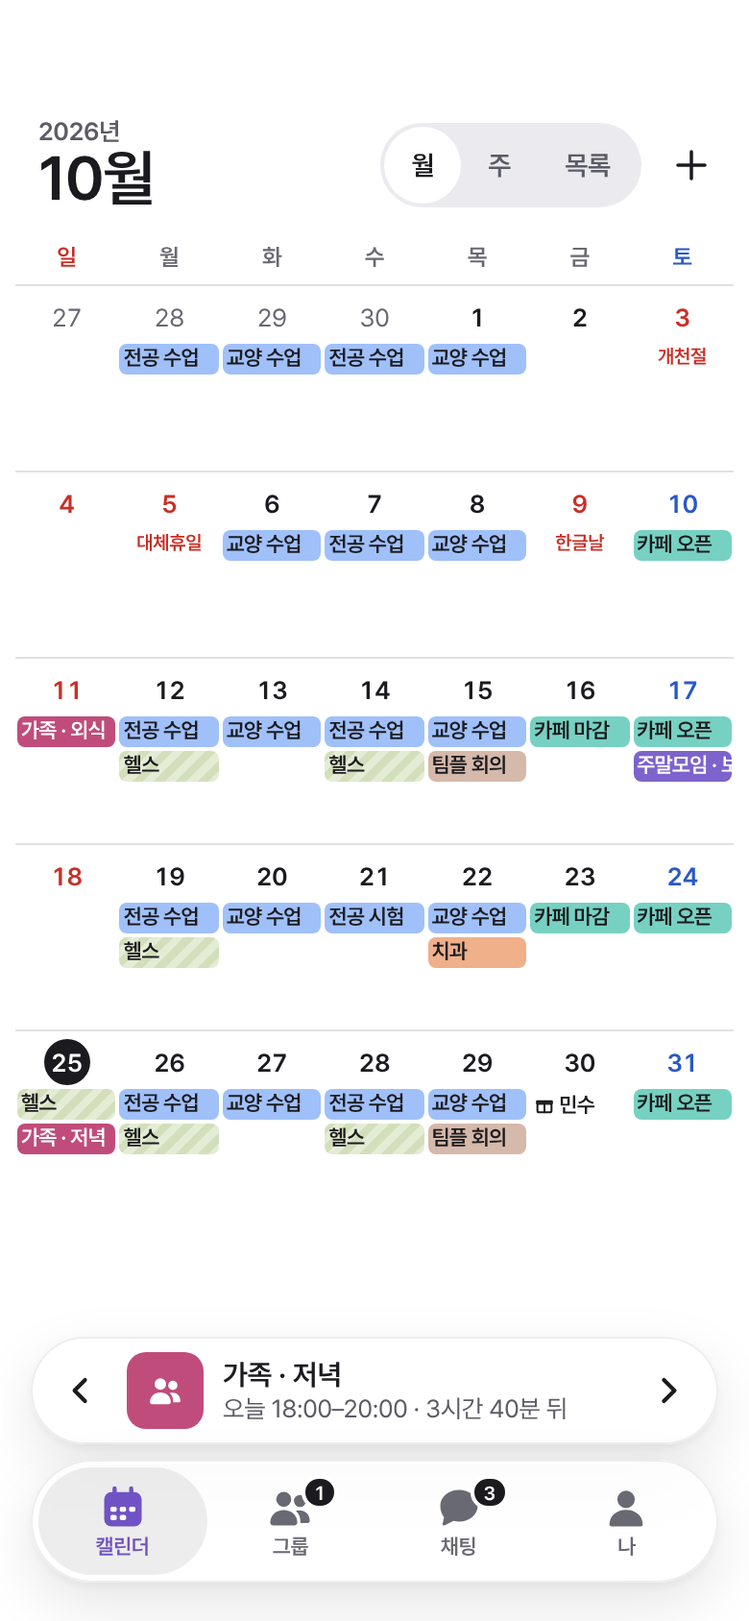
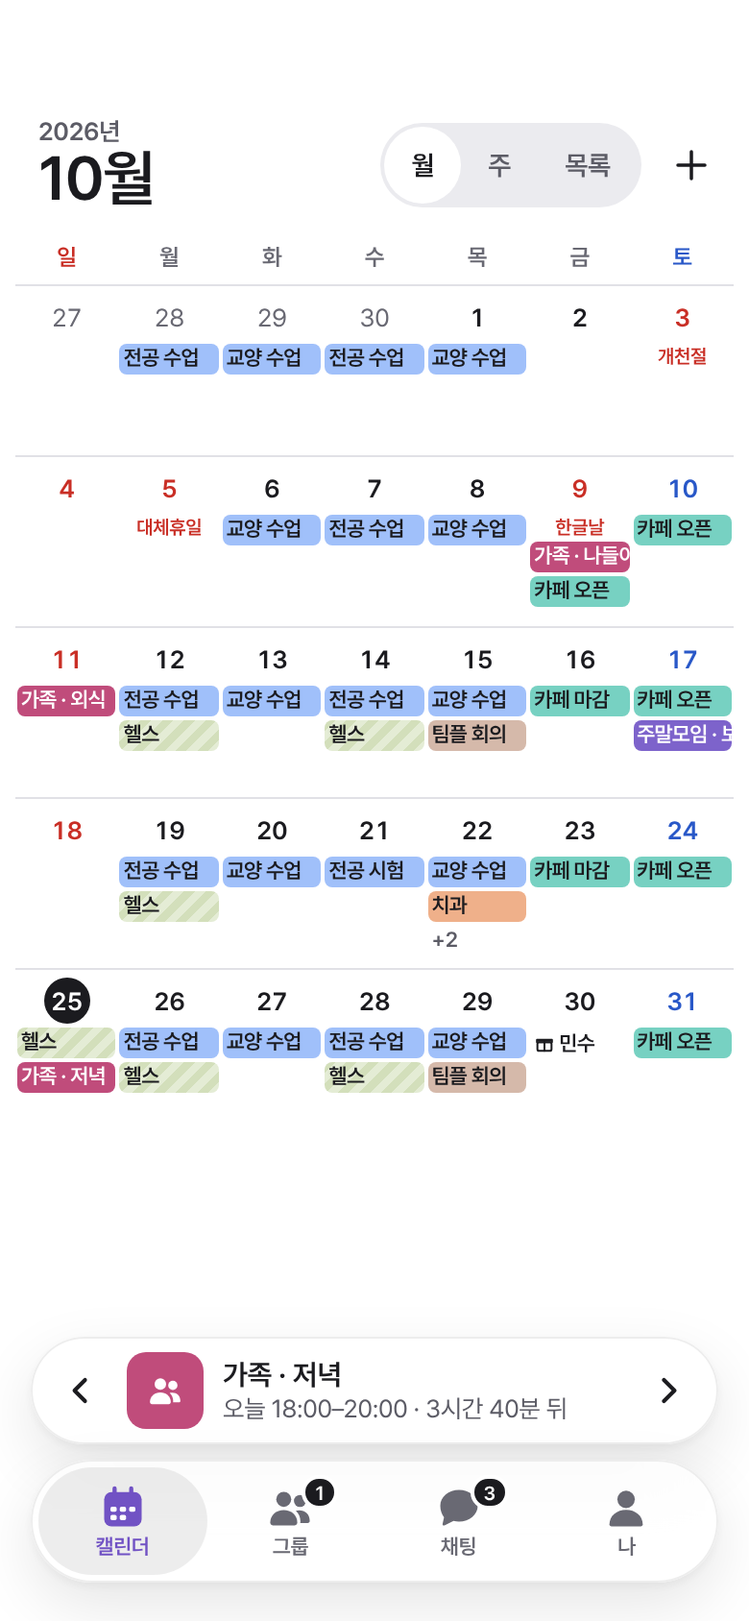
docs(design): split the repeat card from the toast and fit three lines in a month cell (#48)
The iOS 26 tab bar accessory holds one line, so the toast keeps the
next-up slot and the repeat question becomes its own glass card 8 above
it. The toast and its undo stay 5 seconds: the core counts only a delete
within 5 seconds as an undo, so a later tap would leave the alpha and
suggestion counts as if the event stayed. The card, asked only once,
stays 10 seconds or until answered, and does not time out under a screen
reader. A month cell holds three lines under the date, a holiday or
leave mark takes one, and the last line turns into +N.

The Month and Added boards now use the 88 row token instead of 96, show
the +N rule, and the PNGs follow, with the applied state added.

Claude-Session: https://claude.ai/code/session_01NfNQYytRc1WA56NULSw6PM

Changed region(s): [[0.0, 0.2773, 0.9846, 0.7393], [0.0615, 0.4929, 0.1231, 0.5545], [0.0615, 0.2773, 0.1231, 0.3081]]

diff --git a/docs/design/boards/Added.dc.html b/docs/design/boards/Added.dc.html
@@ -38,7 +38,7 @@ button{font:inherit;letter-spacing:inherit;color:inherit}
 
 <div style="position: absolute; top: 148px; left: 8px; width: 374px; display: flex; flex-direction: column">
 <sc-for list="{{weeks}}" as="wk" hint-placeholder-count="5">
-<div style="height: 96px; display: grid; grid-template-columns: repeat(7, minmax(0, 1fr)); border-top: 1px solid #e1e1e6">
+<div style="height: 88px; display: grid; grid-template-columns: repeat(7, minmax(0, 1fr)); border-top: 1px solid #e1e1e6">
 <sc-for list="{{wk.days}}" as="c" hint-placeholder-count="7">
 <a href="QuickEntry.dc.html" aria-label="{{c.label}}" style="min-width: 0; overflow: hidden; display: flex; flex-direction: column; gap: 2px; padding: 4px 1px 0; border-radius: 8px; background: {{c.cellBg}}">
 <span style="align-self: center; width: 24px; height: 24px; border-radius: 12px; display: flex; align-items: center; justify-content: center; font-size: 13px; font-weight: {{c.fw}}; color: {{c.fg}}; background: {{c.bg}}; font-variant-numeric: tabular-nums">{{c.d}}</span>
@@ -48,26 +48,33 @@ button{font:inherit;letter-spacing:inherit;color:inherit}
 <sc-if value="{{c.hasBday}}" hint-placeholder-val="{{false}}">
 <span style="height: 16px; display: flex; align-items: center; gap: 2px; padding: 0 2px; font-size: 11px; font-weight: 600; letter-spacing: -0.03em; white-space: nowrap; overflow: hidden"><svg viewBox="0 0 24 24" width="11" height="11" aria-hidden="true" style="flex: none; fill: none; stroke: currentColor; stroke-width: 2.2; stroke-linecap: round; stroke-linejoin: round"><rect x="4" y="10" width="16" height="10" rx="2"></rect><path d="M3.5 7.5h17v2.5h-17zM12 7.5V20"></path></svg>{{c.bday}}</span>
 </sc-if>
-<sc-for list="{{c.events}}" as="e" hint-placeholder-count="1">
+<sc-for list="{{c.shown}}" as="e" hint-placeholder-count="1">
 <span style="display: block; height: 16px; border-radius: 4px; padding: 0 2px; font-size: 11px; font-weight: 600; line-height: 16px; letter-spacing: -0.03em; white-space: nowrap; overflow: hidden; background: {{e.bg}}; color: {{e.fg}}; box-shadow: {{e.ring}}">{{e.t}}</span>
 </sc-for>
+<sc-if value="{{c.hasMore}}" hint-placeholder-val="{{false}}">
+<span style="display: block; height: 16px; padding: 0 2px; font-size: 11px; font-weight: 600; line-height: 16px; color: #5c5c66; font-variant-numeric: tabular-nums">{{c.more}}</span>
+</sc-if>
 </a>
 </sc-for>
 </div>
 </sc-for>
 </div>
 
-<div role="status" style="position: absolute; left: 16px; top: 604px; width: 358px; box-sizing: border-box; padding: 4px 8px 12px 18px; border-radius: 28px; background: rgba(255,255,255,0.8); backdrop-filter: blur(16px) saturate(180%); box-shadow: 0 12px 32px rgba(0,0,0,0.12), 0 2px 6px rgba(0,0,0,0.05), inset 0 0 0 1px rgba(0,0,0,0.07), inset 0 1px 0 rgba(255,255,255,0.9); display: flex; flex-direction: column; gap: 2px">
-<div style="display: flex; align-items: center; gap: 10px">
+<!-- The repeat question is its own card: the iOS 26 tab bar accessory holds one line, so only the toast takes the next-up slot. -->
+<sc-if value="{{card}}" hint-placeholder-val="{{true}}">
+<section role="status" aria-label="반복 제안" style="position: absolute; left: 16px; bottom: 156px; width: 358px; box-sizing: border-box; padding: 14px 12px 12px 18px; border-radius: 24px; background: rgba(255,255,255,0.8); backdrop-filter: blur(16px) saturate(180%); box-shadow: 0 12px 32px rgba(0,0,0,0.12), 0 2px 6px rgba(0,0,0,0.05), inset 0 0 0 1px rgba(0,0,0,0.07), inset 0 1px 0 rgba(255,255,255,0.9); display: flex; flex-direction: column; gap: 10px">
+<p style="margin: 0; font-size: 15px; font-weight: 600; line-height: 22px">매주 금요일 반복으로 바꿀까요?</p>
+<div style="display: flex; gap: 8px; justify-content: flex-end">
+<button type="button" onClick="{{dismiss}}" style="height: 44px; padding: 0 16px; border: none; border-radius: 999px; background: rgba(0,0,0,0.07); font-size: 15px; font-weight: 600; cursor: pointer">괜찮아요</button>
+<button type="button" onClick="{{apply}}" style="height: 44px; padding: 0 18px; border: none; border-radius: 999px; background: #1b1b1f; color: #ffffff; font-size: 15px; font-weight: 600; cursor: pointer">반복으로 바꾸기</button>
+</div>
+</section>
+</sc-if>
+
+<div role="status" style="position: absolute; left: 16px; top: 696px; width: 358px; height: 56px; box-sizing: border-box; padding: 0 6px 0 16px; border-radius: 28px; background: rgba(255,255,255,0.8); backdrop-filter: blur(16px) saturate(180%); box-shadow: 0 12px 32px rgba(0,0,0,0.12), 0 2px 6px rgba(0,0,0,0.05), inset 0 0 0 1px rgba(0,0,0,0.07), inset 0 1px 0 rgba(255,255,255,0.9); display: flex; align-items: center; gap: 10px">
 <span style="flex: none; width: 24px; height: 24px; border-radius: 12px; background: #1b1b1f; display: flex; align-items: center; justify-content: center"><svg viewBox="0 0 24 24" width="16" height="16" aria-hidden="true" style="fill: none; stroke: #ffffff; stroke-width: 2.6; stroke-linecap: round; stroke-linejoin: round"><path d="M5 12.5l4.5 4.5L19 7.5"></path></svg></span>
-<span style="flex: 1 1 0; font-size: 16px; font-weight: 600">카페 마감을 추가했어요</span>
-<a href="Month.dc.html" style="height: 44px; padding: 0 14px; display: flex; align-items: center; border-radius: 999px; font-size: 15px; font-weight: 600">되돌리기</a>
-</div>
-<p style="margin: 0 12px 0 34px; font-size: 15px; line-height: 22px; color: #3a3a40">매주 금요일 반복으로 바꿀까요?</p>
-<div style="display: flex; gap: 8px; justify-content: flex-end; margin-top: 8px">
-<button type="button" style="height: 44px; padding: 0 16px; border: none; border-radius: 999px; background: rgba(0,0,0,0.07); font-size: 15px; font-weight: 600; cursor: pointer">괜찮아요</button>
-<button type="button" style="height: 44px; padding: 0 18px; border: none; border-radius: 999px; background: #1b1b1f; color: #ffffff; font-size: 15px; font-weight: 600; cursor: pointer">반복으로 바꾸기</button>
-</div>
+<span style="flex: 1 1 0; min-width: 0; font-size: 16px; font-weight: 600; white-space: nowrap; overflow: hidden; text-overflow: ellipsis">{{toastText}}</span>
+<sc-if value="{{canUndo}}" hint-placeholder-val="{{true}}"><a href="Month.dc.html" style="flex: none; height: 44px; padding: 0 14px; display: flex; align-items: center; border-radius: 999px; font-size: 15px; font-weight: 600">되돌리기</a></sc-if>
 </div>
 
 <nav aria-label="탭 막대" style="position: absolute; left: 16px; top: 760px; width: 358px; height: 64px; box-sizing: border-box; padding: 4px; border-radius: 32px; background: rgba(255,255,255,0.66); backdrop-filter: blur(16px) saturate(180%); box-shadow: 0 12px 32px rgba(0,0,0,0.10), 0 2px 6px rgba(0,0,0,0.05), inset 0 0 0 1px rgba(0,0,0,0.07), inset 0 1px 0 rgba(255,255,255,0.9); display: grid; grid-template-columns: repeat(4, minmax(0, 1fr))">
@@ -95,6 +102,10 @@ button{font:inherit;letter-spacing:inherit;color:inherit}
 </x-dc>
 <script type="text/x-dc" data-dc-script data-props='{"$preview":{"width":390,"height":844}}'>
 class Component extends DCLogic {
+  constructor(props) {
+    super(props);
+    this.state = { card: true, changed: false };
+  }
   renderVals() {
     const tint = { school: '#a0c0fa', cafe: '#77d1c2', personal: '#efb08a', device: '#d5b9aa' };
     const ev = (t, kind, fresh) => {
@@ -113,6 +124,7 @@ class Component extends DCLogic {
       '10-6': [ev('교양 수업', 'school')],
       '10-7': [ev('전공 수업', 'school')],
       '10-8': [ev('교양 수업', 'school')],
+      '10-9': [ev('가족 · 나들이', 'family'), ev('카페 오픈', 'cafe')],
       '10-10': [ev('카페 오픈', 'cafe')],
       '10-11': [ev('가족 · 외식', 'family')],
       '10-12': [ev('전공 수업', 'school'), ev('헬스', 'soft')],
@@ -124,7 +136,7 @@ class Component extends DCLogic {
       '10-19': [ev('전공 수업', 'school'), ev('헬스', 'soft')],
       '10-20': [ev('교양 수업', 'school')],
       '10-21': [ev('전공 시험', 'school')],
-      '10-22': [ev('교양 수업', 'school'), ev('치과', 'personal')],
+      '10-22': [ev('교양 수업', 'school'), ev('치과', 'personal'), ev('팀플 회의', 'device'), ev('동아리 회의', 'personal')],
       '10-23': [ev('카페 마감', 'cafe')],
       '10-24': [ev('카페 오픈', 'cafe')],
       '10-25': [ev('헬스', 'soft'), ev('가족 · 저녁', 'family')],
@@ -154,6 +166,12 @@ class Component extends DCLogic {
       else if (dow === 6) fg = '#2958c8';
       const events = E[key] || [];
       const bday = bdays[key] || '';
+      // Three lines under the date; a holiday name takes one. Birthdays come first, and when the rest does not
+      // fit the last line says how many are hidden (m1.md screen 4).
+      const budget = 3 - (holiday ? 1 : 0) - (bday ? 1 : 0);
+      const overflow = events.length > budget;
+      const shown = overflow ? events.slice(0, budget - 1) : events;
+      const hidden = events.length - shown.length;
       const parts = [m + '월 ' + d + '일 ' + dowName[dow] + '요일'];
       if (today) parts.push('오늘');
       if (holiday) parts.push(holiday);
@@ -169,12 +187,21 @@ class Component extends DCLogic {
         hasHoliday: !!holiday,
         bday,
         hasBday: !!bday,
-        events,
+        shown,
+        hasMore: overflow,
+        more: '+' + hidden,
         label: parts.join(', '),
       });
     }
     const weeks = [0, 1, 2, 3, 4].map((w) => ({ days: days.slice(w * 7, w * 7 + 7) }));
-    return { weeks };
+    const { card, changed } = this.state;
+    return {
+      weeks, card,
+      toastText: changed ? '매주 금요일로 바꿨어요' : '카페 마감을 추가했어요',
+      canUndo: !changed,
+      dismiss: () => this.setState({ card: false }),
+      apply: () => this.setState({ card: false, changed: true }),
+    };
   }
 }
 </script>

diff --git a/docs/design/boards/Month.dc.html b/docs/design/boards/Month.dc.html
@@ -38,7 +38,7 @@ button{font:inherit;letter-spacing:inherit;color:inherit}
 
 <div style="position: absolute; top: 148px; left: 8px; width: 374px; display: flex; flex-direction: column">
 <sc-for list="{{weeks}}" as="wk" hint-placeholder-count="5">
-<div style="height: 96px; display: grid; grid-template-columns: repeat(7, minmax(0, 1fr)); border-top: 1px solid #e1e1e6">
+<div style="height: 88px; display: grid; grid-template-columns: repeat(7, minmax(0, 1fr)); border-top: 1px solid #e1e1e6">
 <sc-for list="{{wk.days}}" as="c" hint-placeholder-count="7">
 <a href="QuickEntry.dc.html" aria-label="{{c.label}}" style="min-width: 0; overflow: hidden; display: flex; flex-direction: column; gap: 2px; padding: 4px 1px 0">
 <span style="align-self: center; width: 24px; height: 24px; border-radius: 12px; display: flex; align-items: center; justify-content: center; font-size: 13px; font-weight: {{c.fw}}; color: {{c.fg}}; background: {{c.bg}}; font-variant-numeric: tabular-nums">{{c.d}}</span>
@@ -48,9 +48,12 @@ button{font:inherit;letter-spacing:inherit;color:inherit}
 <sc-if value="{{c.hasBday}}" hint-placeholder-val="{{false}}">
 <span style="height: 16px; display: flex; align-items: center; gap: 2px; padding: 0 2px; font-size: 11px; font-weight: 600; letter-spacing: -0.03em; white-space: nowrap; overflow: hidden"><svg viewBox="0 0 24 24" width="11" height="11" aria-hidden="true" style="flex: none; fill: none; stroke: currentColor; stroke-width: 2.2; stroke-linecap: round; stroke-linejoin: round"><rect x="4" y="10" width="16" height="10" rx="2"></rect><path d="M3.5 7.5h17v2.5h-17zM12 7.5V20"></path></svg>{{c.bday}}</span>
 </sc-if>
-<sc-for list="{{c.events}}" as="e" hint-placeholder-count="1">
+<sc-for list="{{c.shown}}" as="e" hint-placeholder-count="1">
 <span style="display: block; height: 16px; border-radius: 4px; padding: 0 2px; font-size: 11px; font-weight: 600; line-height: 16px; letter-spacing: -0.03em; white-space: nowrap; overflow: hidden; background: {{e.bg}}; color: {{e.fg}}">{{e.t}}</span>
 </sc-for>
+<sc-if value="{{c.hasMore}}" hint-placeholder-val="{{false}}">
+<span style="display: block; height: 16px; padding: 0 2px; font-size: 11px; font-weight: 600; line-height: 16px; color: #5c5c66; font-variant-numeric: tabular-nums">{{c.more}}</span>
+</sc-if>
 </a>
 </sc-for>
 </div>
@@ -121,6 +124,7 @@ class Component extends DCLogic {
       '10-6': [ev('교양 수업', 'school')],
       '10-7': [ev('전공 수업', 'school')],
       '10-8': [ev('교양 수업', 'school')],
+      '10-9': [ev('가족 · 나들이', 'family'), ev('카페 오픈', 'cafe')],
       '10-10': [ev('카페 오픈', 'cafe')],
       '10-11': [ev('가족 · 외식', 'family')],
       '10-12': [ev('전공 수업', 'school'), ev('헬스', 'soft')],
@@ -132,7 +136,7 @@ class Component extends DCLogic {
       '10-19': [ev('전공 수업', 'school'), ev('헬스', 'soft')],
       '10-20': [ev('교양 수업', 'school')],
       '10-21': [ev('전공 시험', 'school')],
-      '10-22': [ev('교양 수업', 'school'), ev('치과', 'personal')],
+      '10-22': [ev('교양 수업', 'school'), ev('치과', 'personal'), ev('팀플 회의', 'device'), ev('동아리 회의', 'personal')],
       '10-23': [ev('카페 마감', 'cafe')],
       '10-24': [ev('카페 오픈', 'cafe')],
       '10-25': [ev('헬스', 'soft'), ev('가족 · 저녁', 'family')],
@@ -160,6 +164,12 @@ class Component extends DCLogic {
       else if (dow === 6) fg = '#2958c8';
       const events = E[key] || [];
       const bday = bdays[key] || '';
+      // Three lines under the date; a holiday name takes one. Birthdays come first, and when the rest does not
+      // fit the last line says how many are hidden (m1.md screen 4).
+      const budget = 3 - (holiday ? 1 : 0) - (bday ? 1 : 0);
+      const overflow = events.length > budget;
+      const shown = overflow ? events.slice(0, budget - 1) : events;
+      const hidden = events.length - shown.length;
       const parts = [m + '월 ' + d + '일 ' + dowName[dow] + '요일'];
       if (today) parts.push('오늘');
       if (holiday) parts.push(holiday);
@@ -174,7 +184,9 @@ class Component extends DCLogic {
         hasHoliday: !!holiday,
         bday,
         hasBday: !!bday,
-        events,
+        shown,
+        hasMore: overflow,
+        more: '+' + hidden,
         label: parts.join(', '),
       });
     }

diff --git a/docs/design/m1.md b/docs/design/m1.md
@@ -185,7 +185,7 @@ flowchart TD
 
 | 항목 | 내용 |
 | --- | --- |
-| 구성 | 머리글: 연도(13) + 월(32), 오른쪽 세그먼트 월·주·목록 + ＋ → 요일 줄(일 빨강, 토 파랑) → 5~6주 격자(칸 88, 날짜 13 · 600, 오늘은 먹색 원) → 칸 안: 공휴일 이름(빨강 11), 일정 막대 최대 3개 + "+N", 생일 아이콘 + 이름 → 다음 할 일 막대(56) → 탭 막대(64, 캘린더 · 나) |
+| 구성 | 머리글: 연도(13) + 월(32), 오른쪽 세그먼트 월·주·목록 + ＋ → 요일 줄(일 빨강, 토 파랑) → 5~6주 격자(칸 88, 날짜 13 · 600, 오늘은 먹색 원) → 칸 안: 날짜 아래 최대 세 줄. 공휴일 이름(빨강 11)이나 연차 다리(점선 "연차")가 있으면 그 표시가 한 줄을 차지해 두 줄이 남음. 남은 줄에 생일(아이콘 + 이름), 일정 막대(코어 순서: 종일 먼저, 그다음 시작 순)를 넣고, 다 못 넣으면 마지막 줄이 "+N"(못 보인 생일·일정 수). 공휴일이 둘이면 첫 이름만 보이고 접근성 이름에는 둘 다 → 다음 할 일 막대(56) → 탭 막대(64, 캘린더 · 나) |
 | 동작 | 날짜 탭 → 빠른 입력 시트. 일정 막대 탭 → 일정 편집. 좌우 밀기 → 이전·다음 달. 머리글 월 탭 → 오늘로 |
 | 상태 | 첫 실행(일정 0): 격자는 그대로, 오늘 칸 아래 말풍선 "날짜를 누르면 추천이 떠요". 복구 코드 배너: 첫 그룹 참여 전까지 머리글 아래 흰 카드. 복구 코드 대기(21번에서 "나중에 넣을게요"): 같은 자리의 배너 "복구 코드를 넣으면 백업을 가져와요 · 넣기"(21번으로). 기기 캘린더 권한 거절: 표시 없음(캘린더 관리에서만 안내) |
 | 코어 | `calendar.month(year, month)` → 날짜별 일정(제목, 캘린더 색, 종일, 시간), 공휴일, 생일, 연차 제안. `nextUp(from: now, count: 12)` |
@@ -205,9 +205,10 @@ flowchart TD
 
 | 항목 | 내용 |
 | --- | --- |
-| 구성 | 다음 할 일 막대 자리에 토스트 "카페 마감을 추가했어요 · 되돌리기"(5초). 같은 제목·같은 요일 3번째면 토스트 아래 카드 "매주 금요일 반복으로 바꿀까요?" + 버튼 "괜찮아요" · "반복으로 바꾸기" |
-| 동작 | 되돌리기 → 삭제, 토스트 "되돌렸어요". 반복으로 바꾸기 → 그 일정에 `weekly` 반복 적용, 토스트 "매주 금요일로 바꿨어요" |
-| 코어 | `events.add` 결과의 `repeatHint`(요일, 횟수) |
+| 구성 | 다음 할 일 막대 자리에 토스트 "카페 마감을 추가했어요 · 되돌리기"(5초). 같은 제목·같은 요일 3번째면 토스트 위 8에 제안 카드가 따로 뜸: "매주 금요일 반복으로 바꿀까요?" + 버튼 "괜찮아요" · "반복으로 바꾸기". iOS 26의 탭 막대 보조 영역은 한 줄 높이라 둘을 나누고, 안드로이드도 같게 그림 |
+| 동작 | 되돌리기 → 삭제, 토스트 "되돌렸어요", 제안 카드도 닫힘. 토스트는 5초 뒤 닫히고 다음 할 일 막대가 돌아옴. 제안 카드는 코어가 한 번만 묻는 것이라 10초 두거나 답할 때까지 둠(토스트보다 오래 남음). 반복으로 바꾸기 → 그 일정에 `weekly` 반복 적용, 카드 닫힘, 토스트 "매주 금요일로 바꿨어요". 괜찮아요 → 카드만 닫힘 |
+| 접근성 | 카드가 나타나면 스크린 리더가 질문을 읽음. 스크린 리더가 켜져 있으면 카드는 저절로 닫지 않고 답할 때까지 둠 |
+| 코어 | `events.add` 결과의 `repeatHint`(요일, 횟수). 코어는 추가 뒤 5초 안의 삭제만 되돌리기로 보고 추천 통계와 알파 통계의 셈을 돌려놓으므로(`UNDO_SECONDS`), 되돌리기를 5초보다 오래 보이지 않음 |
 
 ### 7. 주 보기
 
@@ -440,3 +441,9 @@ flowchart TD
 ### 사용자 결정 (2026-10-26)
 
 26. **복구 코드 보기, 백업 없이 새로 시작, 계정 삭제 앞에서 OS 본인 확인을 거칩니다.** 잠금이 풀린 채 잃은 휴대폰에서 다른 사람이 12단어를 읽거나 백업·계정을 지우지 못하게 하려는 것입니다(위협 모델 3.6 "잠금이 풀린 기기"). 앱은 화면을 그리지 않고 이유 문구만 정하며, 취소하면 아무것도 하지 않습니다. 화면 잠금이 없는 기기는 막지 않고 화면 잠금을 권하는 한 줄만 보입니다. 계정 삭제는 늘 할 수 있어야 하기 때문입니다. 조율 세션이 전한 사용자 결정입니다.
+
+### 검토할 것 (iOS PR #46에 맞춘 보완)
+
+27. **반복 제안은 토스트 위에 따로 뜨는 카드입니다.** iOS 26의 탭 막대 보조 영역은 한 줄 높이라 토스트만 다음 할 일 막대 자리에 두고, 질문과 두 버튼은 그 위 8에 유리 카드로 띄웁니다. 안드로이드도 같게 그립니다(#46 결정 1).
+28. **되돌리기 토스트는 5초 그대로, 제안 카드만 10초 둡니다.** #46은 제안이 붙은 토스트를 10초 두자고 했지만, 코어는 추가 뒤 5초 안의 삭제만 되돌리기로 봅니다. 5초 뒤에 누른 되돌리기는 일반 삭제가 되어 알파 통계의 "만든 일정 수"와 추천 통계가 그대로 남습니다. 그래서 되돌리기는 확정한 4번대로 5초만 보이고, 한 번만 묻는 제안은 카드로 10초 남깁니다. 스크린 리더가 켜져 있으면 카드는 답할 때까지 둡니다(#46 결정 2를 바꿈).
+29. **월 칸은 날짜 아래 세 줄입니다.** 공휴일이나 연차 다리 표시가 있으면 그 표시가 한 줄을 차지해 일정과 생일은 두 줄이고, 넘치면 마지막 줄이 "+N"입니다. 칸 높이 88(`component.calendar.monthCell`)을 지키려는 것입니다(#46 결정 4).

diff --git a/docs/design/screens.md b/docs/design/screens.md
@@ -1,6 +1,6 @@
 # 화면 시안
 
-시안 캔버스에서 내보낸 화면입니다(마지막 2026-10-25). 화면별 구성과 상태는 [M1 화면](m1.md)에 있습니다. 휴대폰 화면은 `@2x` PNG(780×1688, 390×844pt), 기초 보드는 1배 PNG입니다. 캔버스에서는 화면을 눌러 다음 화면으로 넘어가 볼 수 있고, 여기에는 주요 상태를 따로 내보냈습니다. 색·글꼴·간격 값은 [README](README.md)와 [`tokens.json`](tokens.json)을, 정확한 간격과 문구는 [보드 원본](boards/)을 봅니다.
+시안 캔버스에서 내보낸 화면입니다(마지막 2026-10-26). 화면별 구성과 상태는 [M1 화면](m1.md)에 있습니다. 휴대폰 화면은 `@2x` PNG(780×1688, 390×844pt), 기초 보드는 1배 PNG입니다. 캔버스에서는 화면을 눌러 다음 화면으로 넘어가 볼 수 있고, 여기에는 주요 상태를 따로 내보냈습니다. 색·글꼴·간격 값은 [README](README.md)와 [`tokens.json`](tokens.json)을, 정확한 간격과 문구는 [보드 원본](boards/)을 봅니다.
 
 ## 디자인 기초
 
@@ -23,10 +23,10 @@
 
 ### 빠른 입력: 날짜 탭 → 추천 칩 → 바로 저장
 
-| 월 보기(홈) | 빠른 입력 시트 | 추천 칩을 누른 뒤 |
-| --- | --- | --- |
-| <img src="screens/m1/04-month@2x.png" width="240" alt="월 보기"> | <img src="screens/m1/05-quick-entry@2x.png" width="240" alt="빠른 입력 시트"> | <img src="screens/m1/06-added@2x.png" width="240" alt="추가됨"> |
-| 일정 막대, 공휴일, 다음 할 일 막대와 탭 막대. | 날짜를 누르면 뜹니다. 추천 칩은 누르는 즉시 저장되고, 직접 입력은 끌어서 시간을 고릅니다. | "추가했어요 · 되돌리기"와 반복 제안이 다음 할 일 막대 자리에 뜹니다. |
+| 월 보기(홈) | 빠른 입력 시트 | 추천 칩을 누른 뒤 | 반복으로 바꾼 뒤 |
+| --- | --- | --- | --- |
+| <img src="screens/m1/04-month@2x.png" width="200" alt="월 보기"> | <img src="screens/m1/05-quick-entry@2x.png" width="200" alt="빠른 입력 시트"> | <img src="screens/m1/06-added@2x.png" width="200" alt="추가됨"> | <img src="screens/m1/06-added--applied@2x.png" width="200" alt="반복으로 바꿈"> |
+| 일정 막대, 공휴일, 다음 할 일 막대와 탭 막대. 칸은 날짜 아래 세 줄이고, 공휴일 이름이 한 줄을 차지하며, 넘치면 마지막 줄이 "+N"입니다. | 날짜를 누르면 뜹니다. 추천 칩은 누르는 즉시 저장되고, 직접 입력은 끌어서 시간을 고릅니다. | "추가했어요 · 되돌리기"는 다음 할 일 막대 자리에 5초, 반복 제안은 그 위 카드로 10초 뜹니다. | 제안 카드가 닫히고 토스트가 "매주 금요일로 바꿨어요"로 바뀝니다. |
 
 ### 월·주·목록과 일정 편집
 

diff --git a/docs/design/components.md b/docs/design/components.md
@@ -63,7 +63,8 @@
 | --- | --- |
 | 시트 | 위 모서리 20, 손잡이 36×5 `#d1d1d6`, 안쪽 여백 위 8 · 좌우 20 · 아래 34(홈 인디케이터 포함). 뒤 흐림막 `rgba(10,10,14,0.32)` |
 | 시트 높이 | 내용만큼. 빠른 입력 552, 날짜 잡기 740, 1:1 시작 724. 화면의 90%를 넘지 않음 |
-| 토스트 | 높이 48, 모서리 14, `ink` 바탕 흰 글자 15 · 600, 오른쪽 "되돌리기". 탭 막대 위 8. 5초 뒤 사라지고 되돌리기를 누르면 바로 닫힘 |
+| 토스트 | 높이 48, 모서리 14, `ink` 바탕 흰 글자 15 · 600, 오른쪽 "되돌리기". 탭 막대 위 8. 다음 할 일 막대가 있는 캘린더 탭에서는 그 막대 자리에 막대와 같은 유리 캡슐(56)로 뜸([M1 화면](m1.md) 6번). 5초 뒤 사라지고 되돌리기를 누르면 바로 닫힘 |
+| 제안 카드 | 토스트 위 8, 다음 할 일 막대와 같은 유리 바탕, 모서리 24, 안쪽 여백 위 14 · 좌우 18·12 · 아래 12. 질문 15 · 600 + 오른쪽 버튼 두 개(44, 보조 · 주요). 10초 뒤 사라지고, 답하면 바로 닫힘. 스크린 리더가 켜져 있으면 저절로 닫지 않음 |
 | 배너 | 흰 바탕 카드, 아이콘 + 두 줄 + 작은 알약 버튼. 복구 코드처럼 사용자가 닫을 때까지 남는 안내 |
 | 길게 누르기 메뉴 | 너비 240, 줄 46, 흰 94% + 블러 20. 위험한 항목은 맨 아래 빨간 글자 |
 | 모달 창(alert) | 쓰지 않음. 묻는 것은 시트로 |
@@ -98,6 +99,7 @@
 | 누름 | 120ms | ease-out |
 | 시트 열기·닫기 | 320ms · 240ms | 스프링(감쇠 0.85) / ease-in |
 | 토스트 | 나타남 200ms, 5초 뒤 사라짐 200ms | ease-out / ease-in |
+| 제안 카드 | 나타남 200ms, 10초 뒤 사라짐 200ms | ease-out / ease-in |
 | 탭 전환 | 없음(즉시) | |
 | 월 넘기기 | 가로 밀기, 손을 따라감 | 스크롤 |
 | 다음 할 일 넘기기 | 160ms 가로 밀림 | ease-out |
@@ -116,7 +118,8 @@
 | 세그먼트 | `Picker` + `.segmented` | `SingleChoiceSegmentedButtonRow` |
 | 스위치 | `Toggle` | `Switch` |
 | 시트 | `.sheet` + `.presentationDetents([.height(…)])` + `.presentationDragIndicator(.visible)` | `ModalBottomSheet` |
-| 토스트 | 직접 그림(overlay) | `Snackbar`(동작 "되돌리기") |
+| 토스트 | 직접 그림(overlay). 캘린더 탭은 `tabViewBottomAccessory` 안 | `Snackbar`(동작 "되돌리기") |
+| 제안 카드 | 직접 그림(overlay) | 직접 그림(`Snackbar`는 동작이 하나뿐) |
 | 탭 막대 | `TabView`(iOS 26 리퀴드 글라스), `tabViewBottomAccessory` | `NavigationBar`(M3) + 위에 막대 |
 | 길게 누르기 메뉴 | `.contextMenu` | `DropdownMenu` |
 | 목록 | `List`(.insetGrouped) | `LazyColumn` + `ListItem` |
